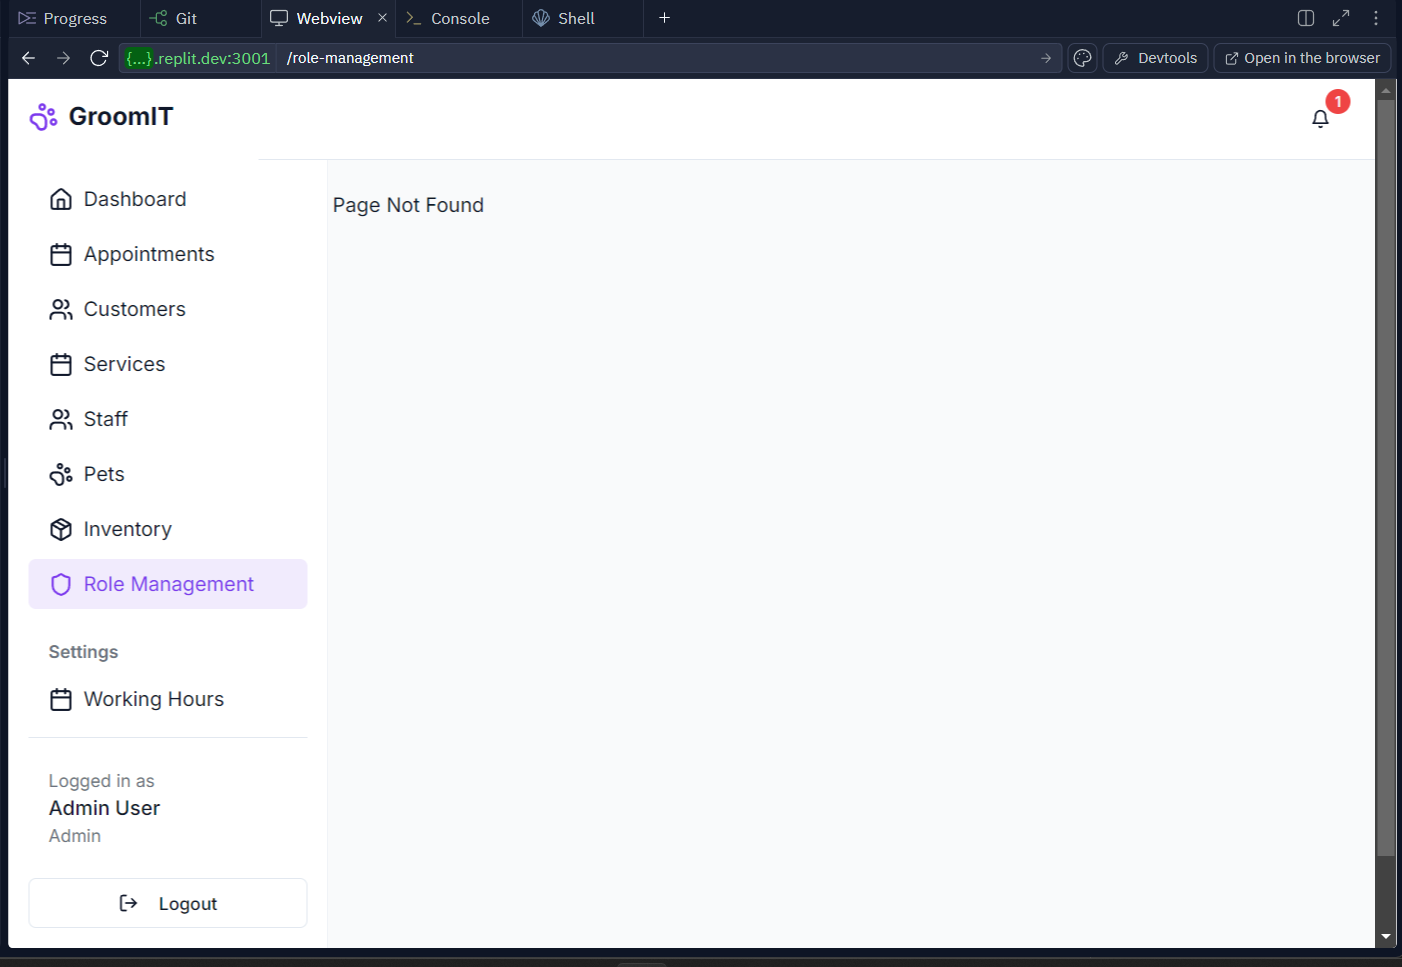
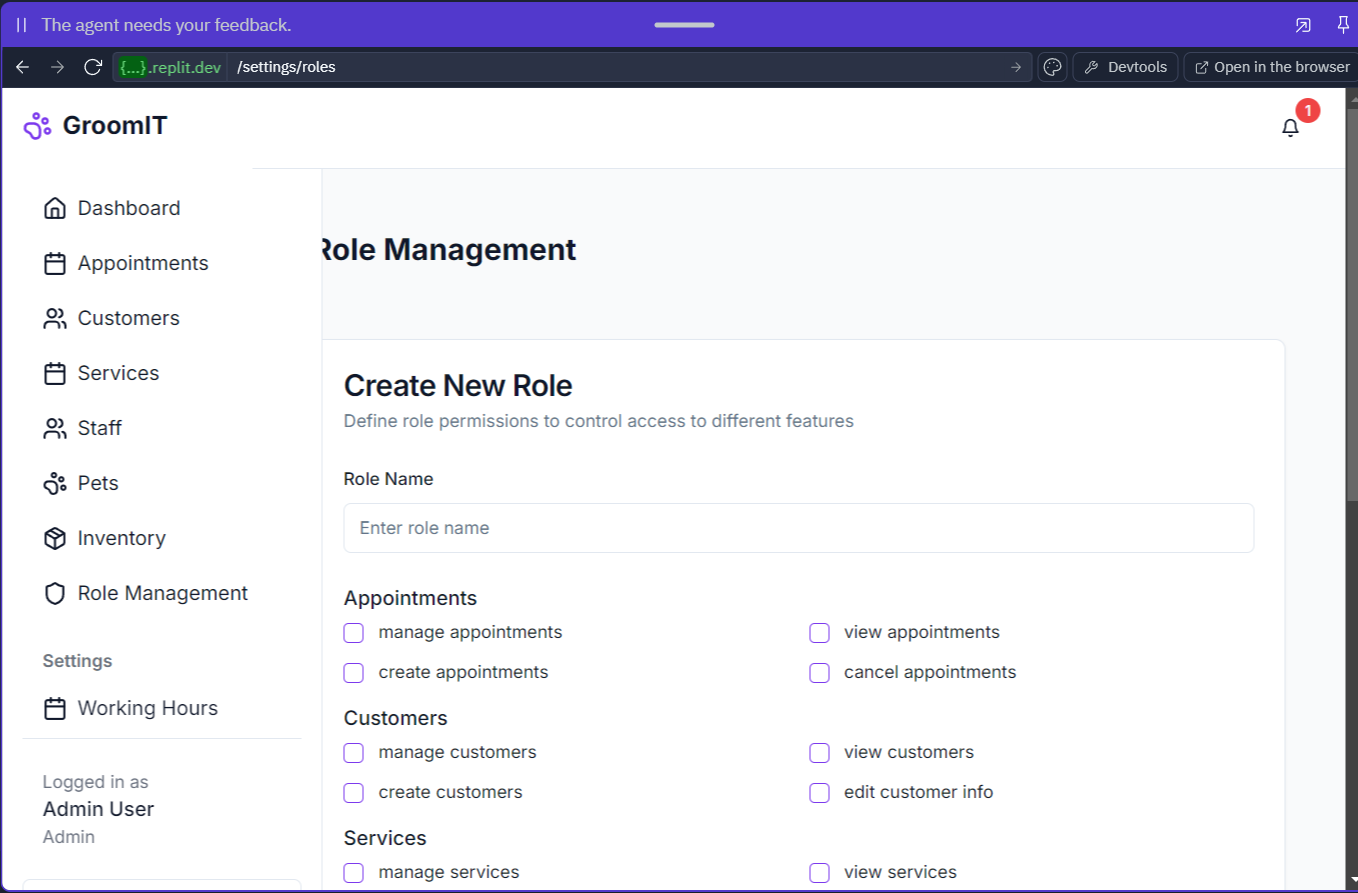
Agent query: Can you verify if the Role Management link is now visible under Settings in the sidebar and clicking it navigates to /role-management?
Add new settings page for role management and update sidebar navigation to include it.

Screenshot: https://storage.googleapis.com/screenshot-production-us-central1/c2ee078f-4b26-4083-bd08-de31e29653e1/6677df58-5c94-4034-afb3-5bd6d13a55c6.jpg

diff --git a/client/src/components/Sidebar.tsx b/client/src/components/Sidebar.tsx
@@ -16,13 +16,13 @@ export default function Sidebar() {
     { href: "/staff", icon: Users, label: "Staff" },
     { href: "/pets", icon: PawPrint, label: "Pets" },
     { href: "/inventory", icon: Package, label: "Inventory" },
-    ...(user?.role === 'admin' ? [
-      { href: "/role-management", icon: Shield, label: "Role Management" }
-    ] : []),
   ];
 
   const settingsLinks = [
-    { href: "/settings/working-hours", icon: Calendar, label: "Working Hours" }
+    { href: "/settings/working-hours", icon: Calendar, label: "Working Hours" },
+    ...(user?.role === 'admin' ? [
+      { href: "/role-management", icon: Shield, label: "Role Management" }
+    ] : []),
   ];
 
   return (

diff --git a/client/src/components/ProtectedRoute.tsx b/client/src/components/ProtectedRoute.tsx
@@ -32,7 +32,8 @@ export default function ProtectedRoute({
           '/auth/admin',
           '/auth/setup',
           '/user-management',
-          '/role-management'
+          '/role-management',
+          '/settings/role-management'
         ];
         const isUserManagementPath = userManagementPaths.some(path => location.startsWith(path));
         if (isUserManagementPath || requiresUserManagement) {
